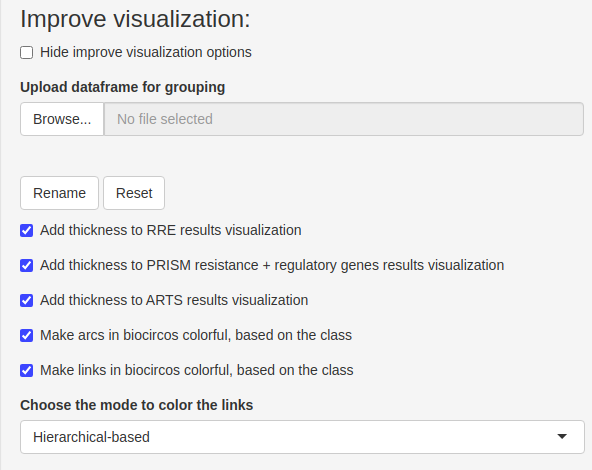
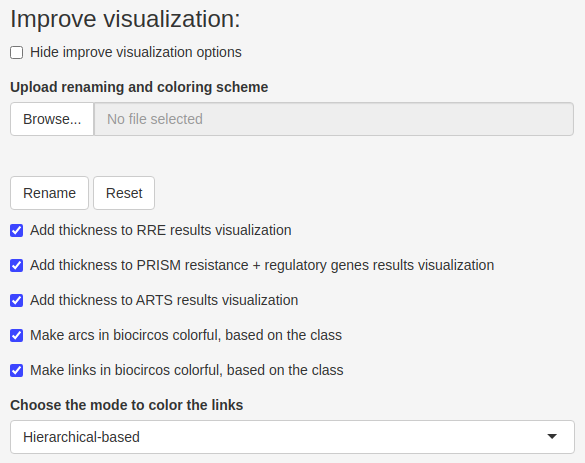
Renamed the renaming scheme upload field
Former-commit-id: cc1063ddbf363adf6e0ca70ea94b11b8c5b79057

diff --git a/docs/BGCViz_renaming_and_coloring_options.md b/docs/BGCViz_renaming_and_coloring_options.md
@@ -25,7 +25,7 @@ aminocoumarin|other||||
 
 The data used for renaming is stored under "Code" and "Group" columns. The default file is available is the BGCViz directory or in the [Glossary](Glossary.md). The one is free to use any renaming scheme, but the whole csv file should be uploaded in the file input in BGCViz:
 
-![renaming_opt.png](/images/renaming_opt.png)
+![rename](/images/rename.png)
 
 # Coloring renamed data
 
